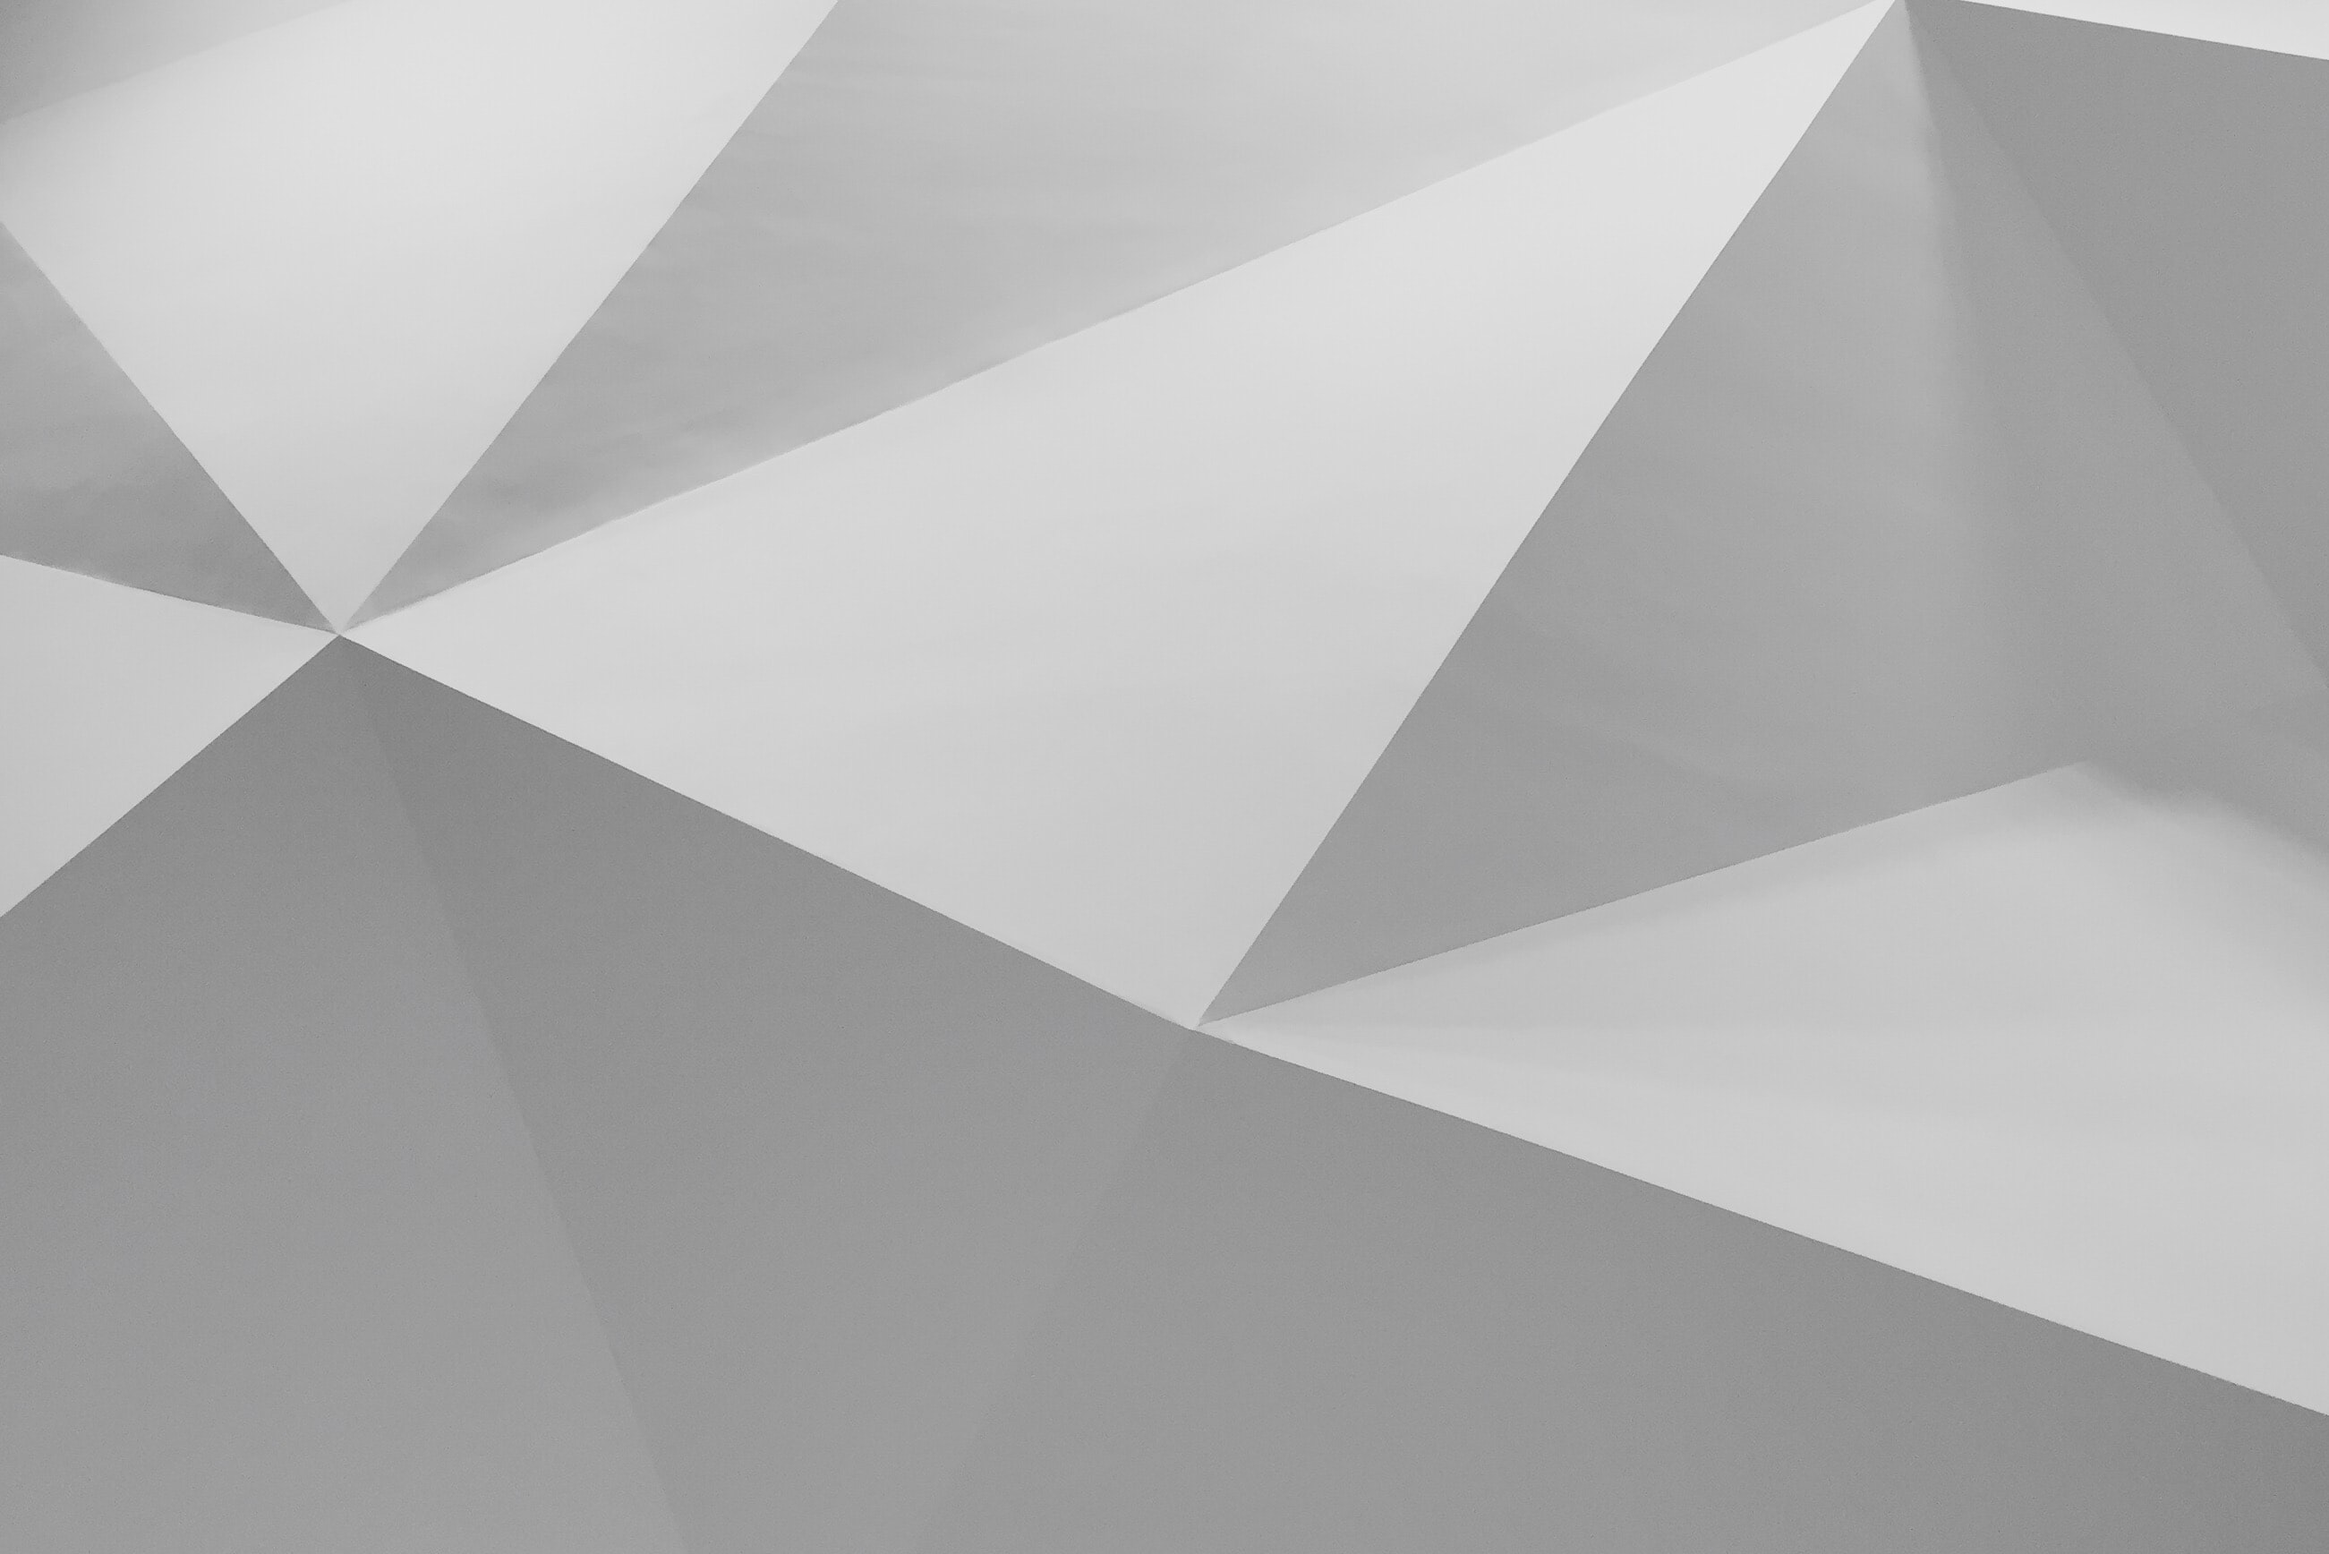
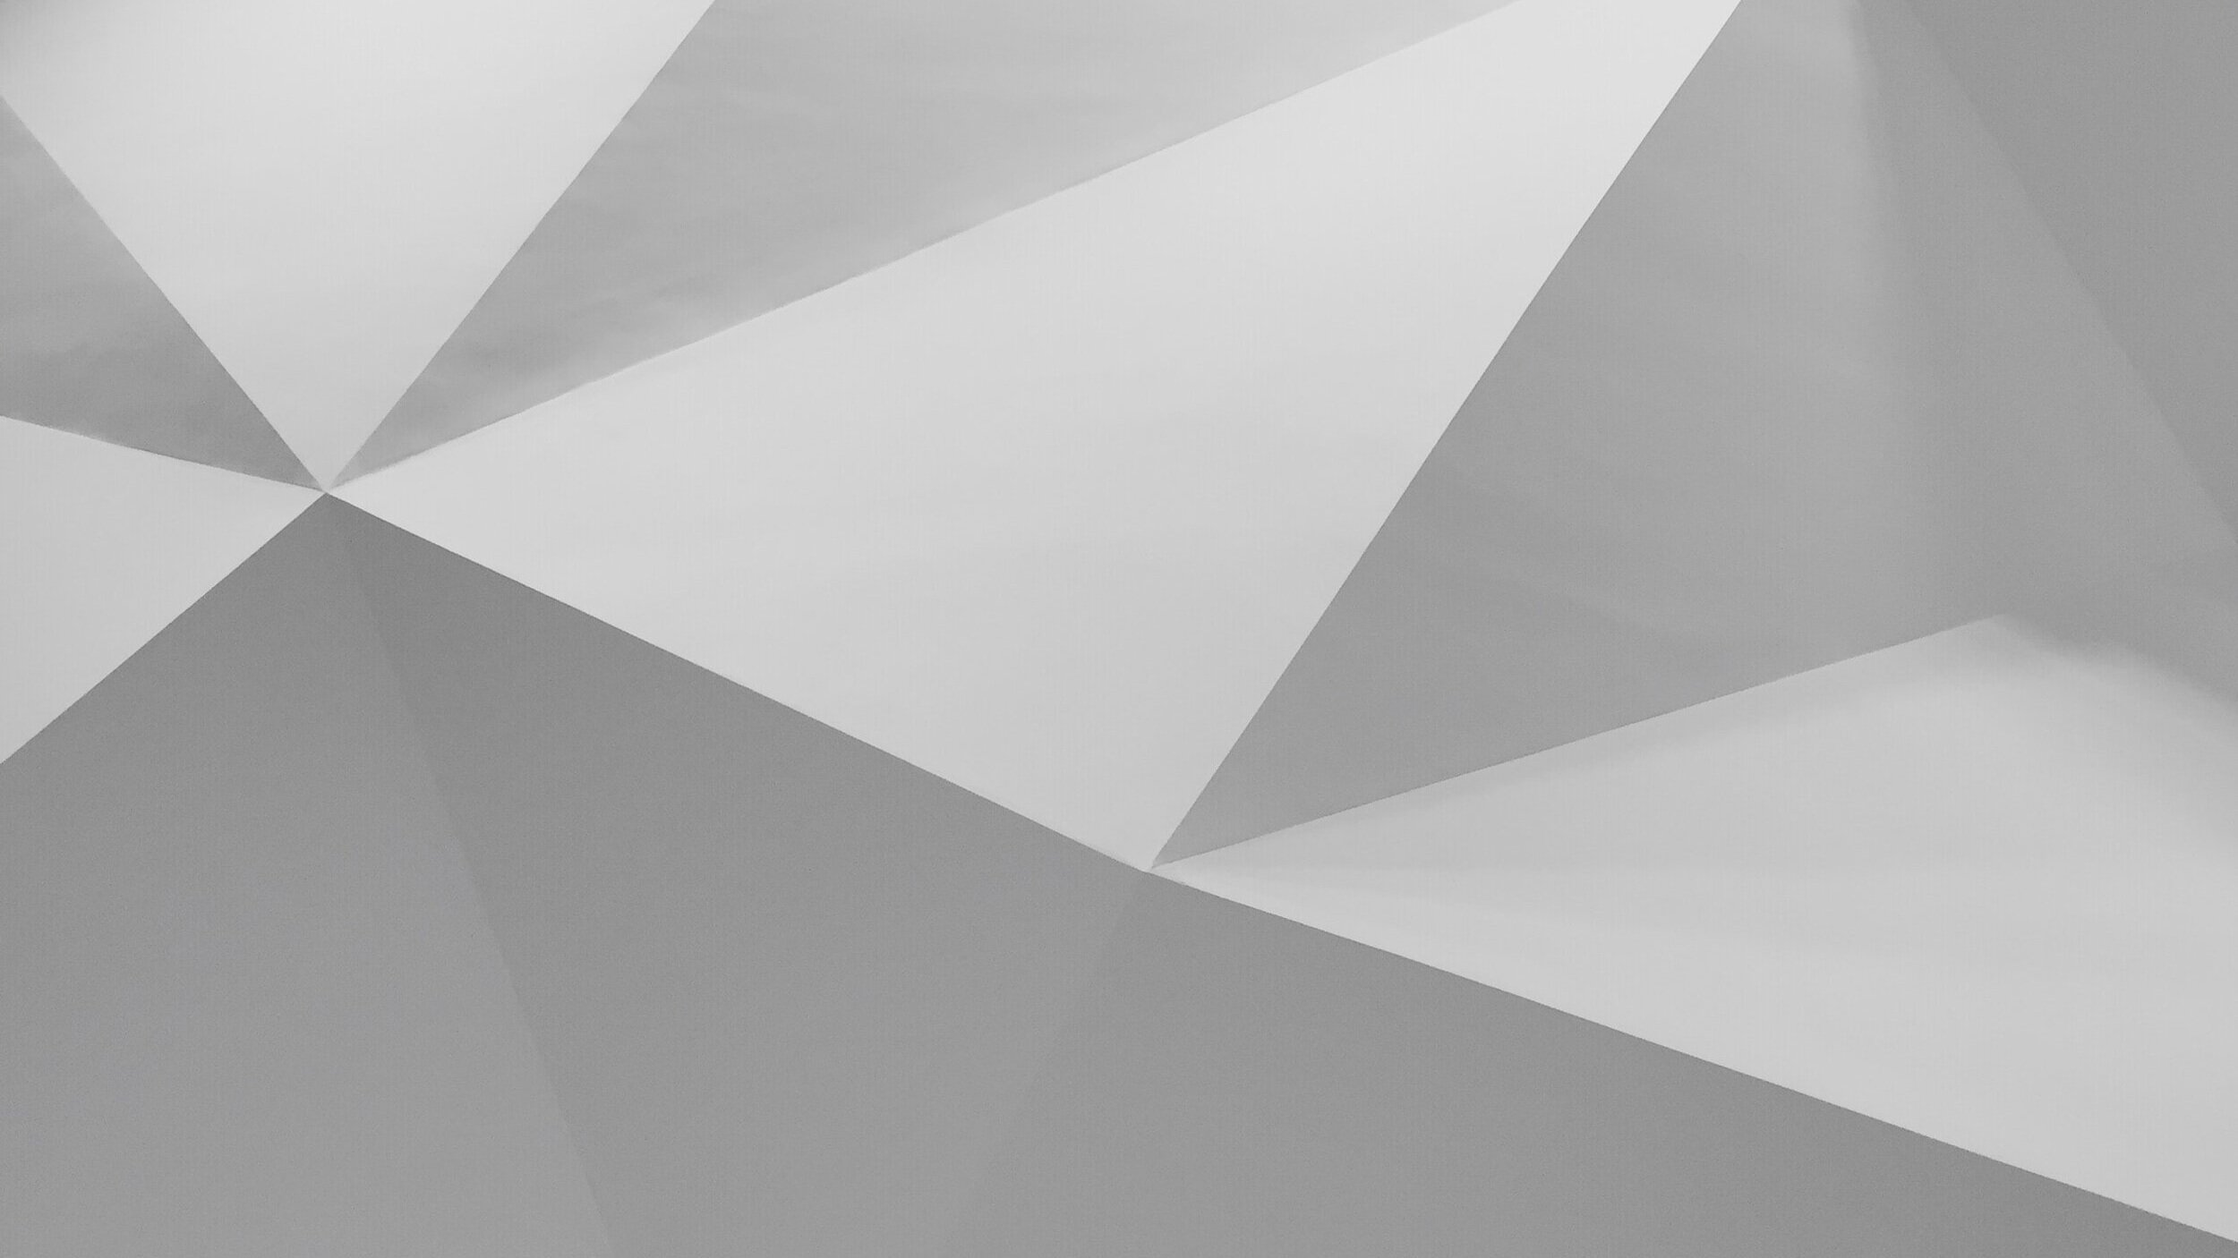
Heroヘッダーを作成

diff --git a/src/components/header.js b/src/components/header.js
@@ -4,9 +4,23 @@ import React from "react"
 
 import { FiMenu } from "react-icons/fi"
 import { MdClose } from "react-icons/md"
-import { IoIosSearch } from "react-icons/io"
+import CustomBtn from './button';
+import MailOutlineIcon from '@material-ui/icons/MailOutline';
+import { makeStyles } from '@material-ui/core/styles';
+
+const useStyles = makeStyles((theme) => ({
+  navTxtEn: {
+    fontSize: "16px",
+    color: "#505050"
+  },
+  navTxt: {
+    fontSize: "14px",
+    color: "#505050"
+  }
+}));
 
 const Header = ({ siteTitle, menuOpen, setMenuOpen, isTransparent }) => {
+  const classes = useStyles();
   const data = useStaticQuery(graphql`
     {
       allTopicsJson {
@@ -34,9 +48,6 @@ const Header = ({ siteTitle, menuOpen, setMenuOpen, isTransparent }) => {
           <Link
             to="/"
             id="site-logo"
-            style={{
-              textDecoration: `none`,
-            }}
           >
             {siteTitle}
           </Link>
@@ -44,26 +55,34 @@ const Header = ({ siteTitle, menuOpen, setMenuOpen, isTransparent }) => {
 
         <nav id="nav">
           <ul>
-            {data.allTopicsJson.edges.map(({ node }) => (
-              <li key={node.slug}>
-                <Link to={`/${node.slug}`}>{node.name}</Link>
-              </li>
-            ))}
             <li>
-              <Link to="/about">About</Link>
+              <Link to="/about">
+                <span className={classes.navTxtEn}>SOLUTION</span><br/>
+                <span className={classes.navTxt}>事業</span>
+              </Link>
+            </li>
+            <li>
+              <Link to="/about">
+                <span className={classes.navTxtEn}>WORKS</span><br/>
+                <span className={classes.navTxt}>制作事例</span>
+              </Link>
+            </li>
+            <li>
+              <Link to="/about">
+                <span className={classes.navTxtEn}>ABOUT</span><br/>
+                <span className={classes.navTxt}>INOLABOとは</span>
+              </Link>
+            </li>
+            <li>
+              <Link to="/blog">
+                <span className={classes.navTxtEn}>BLOG</span><br/>
+                <span className={classes.navTxt}>ブログ</span>
+              </Link>
+            </li>
+            <li>
+              <CustomBtn title="お問い合わせ" iconComponent={<MailOutlineIcon />} bgColor="#F2994A" />
             </li>
           </ul>
-          <div id="search-box">
-            <form
-              onSubmit={e => {
-                e.preventDefault()
-                navigate(`/blog?s=${e.target.query.value.toLowerCase()}`)
-              }}
-            >
-              <input type="text" id="query" aria-label="Search" />
-            </form>
-            <IoIosSearch />
-          </div>
           {menuOpen ? (
             <button className="menu-button" onClick={() => setMenuOpen(false)}>
               <MdClose />
@@ -78,13 +97,29 @@ const Header = ({ siteTitle, menuOpen, setMenuOpen, isTransparent }) => {
       {menuOpen && (
         <div id="menu">
           <ul>
-            {data.allTopicsJson.edges.map(({ node }) => (
-              <li key={node.slug}>
-                <Link to={`/${node.slug}`}>{node.name}</Link>
-              </li>
-            ))}
             <li>
-              <Link to="/about">About</Link>
+              <Link to="/about">
+                <span className={classes.navTxtEn}>SOLUTION</span><br/>
+                <span className={classes.navTxt}>事業</span>
+              </Link>
+            </li>
+            <li>
+              <Link to="/about">
+                <span className={classes.navTxtEn}>WORKS</span><br/>
+                <span className={classes.navTxt}>制作事例</span>
+              </Link>
+            </li>
+            <li>
+              <Link to="/about">
+                <span className={classes.navTxtEn}>ABOUT</span><br/>
+                <span className={classes.navTxt}>INOLABOとは</span>
+              </Link>
+            </li>
+            <li>
+              <Link to="/blog">
+                <span className={classes.navTxtEn}>BLOG</span><br/>
+                <span className={classes.navTxt}>ブログ</span>
+              </Link>
             </li>
           </ul>
         </div>

diff --git a/src/components/blogTopics.js b/src/components/blogTopics.js
@@ -1,0 +1,104 @@
+import { Link, useStaticQuery, graphql, navigate } from "gatsby"
+import PropTypes from "prop-types"
+import React from "react"
+
+import { FiMenu } from "react-icons/fi"
+import { MdClose } from "react-icons/md"
+import { IoIosSearch } from "react-icons/io"
+
+const Header = ({ siteTitle, menuOpen, setMenuOpen, isTransparent }) => {
+  const data = useStaticQuery(graphql`
+    {
+      allTopicsJson {
+        edges {
+          node {
+            name
+            slug
+          }
+        }
+      }
+    }
+  `)
+
+  return (
+    <header id="header" className={`${isTransparent ? 'transparent' : ''}`}>
+      <div className="container">
+        <button
+          id="site-logo-wrapper"
+          onClick={() => {
+            if (menuOpen) {
+              setMenuOpen(false)
+            }
+          }}
+        >
+          <Link
+            to="/"
+            id="site-logo"
+            style={{
+              textDecoration: `none`,
+            }}
+          >
+            {siteTitle}
+          </Link>
+        </button>
+
+        <nav id="nav">
+          <ul>
+            {data.allTopicsJson.edges.map(({ node }) => (
+              <li key={node.slug}>
+                <Link to={`/${node.slug}`}>{node.name}</Link>
+              </li>
+            ))}
+            <li>
+              <Link to="/about">About</Link>
+            </li>
+          </ul>
+          <div id="search-box">
+            <form
+              onSubmit={e => {
+                e.preventDefault()
+                navigate(`/blog?s=${e.target.query.value.toLowerCase()}`)
+              }}
+            >
+              <input type="text" id="query" aria-label="Search" />
+            </form>
+            <IoIosSearch />
+          </div>
+          {menuOpen ? (
+            <button className="menu-button" onClick={() => setMenuOpen(false)}>
+              <MdClose />
+            </button>
+          ) : (
+            <button className="menu-button" onClick={() => setMenuOpen(true)}>
+              <FiMenu />
+            </button>
+          )}
+        </nav>
+      </div>
+      {menuOpen && (
+        <div id="menu">
+          <ul>
+            {data.allTopicsJson.edges.map(({ node }) => (
+              <li key={node.slug}>
+                <Link to={`/${node.slug}`}>{node.name}</Link>
+              </li>
+            ))}
+            <li>
+              <Link to="/about">About</Link>
+            </li>
+          </ul>
+        </div>
+      )}
+    </header>
+  )
+}
+
+Header.propTypes = {
+  siteTitle: PropTypes.string,
+}
+
+Header.defaultProps = {
+  siteTitle: ``,
+}
+
+export default Header

diff --git a/src/pages/index.js b/src/pages/index.js
@@ -10,13 +10,33 @@ import "../styles/styles.css"
 
 
 const useStyles = makeStyles((theme) => ({
-  sectionTitle: {
-    textAlign: "center"
+  heroTxtBox: {
+    position: "absolute",
+    top: "40%",
+    width: "100%",
+    color: "#505050",
+  },
+  heroTxtH1: {
+    margin: "0 auto",
+    width: "1200px",
+    fontSize: "48px",
+    "@media (max-width: 1300px)": {
+      width: "758px",
+    }
+  },
+  heroTxtH2: {
+    margin: "0 auto",
+    width: "1200px",
+    fontSize: "24px",
+    "@media (max-width: 1300px)": {
+      width: "758px",
+    }
   }
 }));
 
 const IndexPage = () => {
   const [menuOpen, setMenuOpen] = useState(false)
+  const classes = useStyles();
 
   return (
     <>
@@ -28,7 +48,14 @@ const IndexPage = () => {
       />
       <SEO title="イノラボ" />
       <div>
-        <Image filename="whiteImage.jpg" alt="heroイメージ" />
+        <Image height="100vh" filename="whiteImage.jpg" alt="heroイメージ" />
+        <p className={classes.heroTxtBox}>
+          <p className={classes.heroTxtH1}>想像を形にする。</p>
+          <p className={classes.heroTxtH2}>
+            INOLABOは<br/>
+            明瞭な価格と確かな技術を約束します。
+          </p>
+        </p>
 
         <SectionWorks />
         <SectionConv />

diff --git a/src/styles/styles.css b/src/styles/styles.css
@@ -5,10 +5,10 @@
   box-sizing: border-box;
 }
 .container {
-  width: 968px;
+  width: 1200px;
   margin: 0 auto;
 }
-@media (max-width: 1000px) {
+@media (max-width: 1300px) {
   .container {
     width: 758px;
   }
@@ -85,7 +85,7 @@ body {
 }
 #nav ul li {
   margin: 12px;
-  line-height: 32px;
+  text-align: center;
 }
 @media (max-width: 840px) {
   #nav ul,
@@ -97,7 +97,7 @@ body {
 @media (min-width: 601px) {
   #nav ul li a:hover,
   #site-logo:hover {
-    color: #f7102b;
+    opacity: 0.5;
     transition: all 0.4s ease;
   }
 }
@@ -106,8 +106,9 @@ body {
   border: none;
 }
 #site-logo {
-  font-size: 19.5px;
-  font-weight: 700;
+  font-size: 28px;
+  font-weight: 500;
+  color: #505050;
 }
 #search-box {
   position: relative;
@@ -133,7 +134,8 @@ body {
   position: fixed;
   width: 100%;
   min-height: 100vh;
-  background: #fff;
+  background: #999999;
+  color: #fff;
   z-index: 25;
   padding: 20px;
 }

diff --git a/src/components/button.js b/src/components/button.js
@@ -7,11 +7,9 @@ const BootstrapButton = withStyles({
     boxShadow: 'none',
     textTransform: 'none',
     fontSize: 16,
-    padding: '12px 24px',
-    border: '1px solid',
+    padding: '6px 12px',
     lineHeight: 1.5,
     backgroundColor: '#0063cc',
-    borderColor: '#0063cc',
     fontFamily: [
       '-apple-system',
       'BlinkMacSystemFont',
@@ -40,13 +38,14 @@ const BootstrapButton = withStyles({
   },
 })(Button);
 
-const CustomBtn = ({ title, iconComponent }) => {
+const CustomBtn = ({ title, iconComponent, bgColor }) => {
   return (
     <BootstrapButton 
       variant="contained"
       color="primary"
       disableRipple
       startIcon={iconComponent}
+      style={{ backgroundColor: bgColor }}
     >
       {title}
     </BootstrapButton>

diff --git a/src/components/image.js b/src/components/image.js
@@ -12,7 +12,7 @@ const Image = (props) => (
               relativePath
               name
               childImageSharp {
-                fluid(maxWidth: 1000) {
+                fluid(maxWidth: 2500) {
                   ...GatsbyImageSharpFluid
                 }
               }
@@ -36,7 +36,7 @@ const Image = (props) => (
       //const imageSizes = image.node.childImageSharp.sizes; ←サイズFIXしたい時
       return (
         /*<Img alt={props.alt} sizes={imageSizes} /> ←サイズFIXしたい時 */
-        <Img fluid={image.node.childImageSharp.fluid} alt={props.alt} />
+        <Img style={{ height: props.height }} fluid={image.node.childImageSharp.fluid} alt={props.alt} />
       );
     }}
   />

diff --git a/src/components/index/sectionConv.js b/src/components/index/sectionConv.js
@@ -25,7 +25,7 @@ const SectionConv = () => {
             CONTACT
           </Typography>
         </Grid>
-        <CustomBtn title="お問い合わせはこちら" iconComponent={<MailOutlineIcon />} />
+        <CustomBtn title="お問い合わせ" iconComponent={<MailOutlineIcon />} />
       </Grid>
     </Grid>
   );
